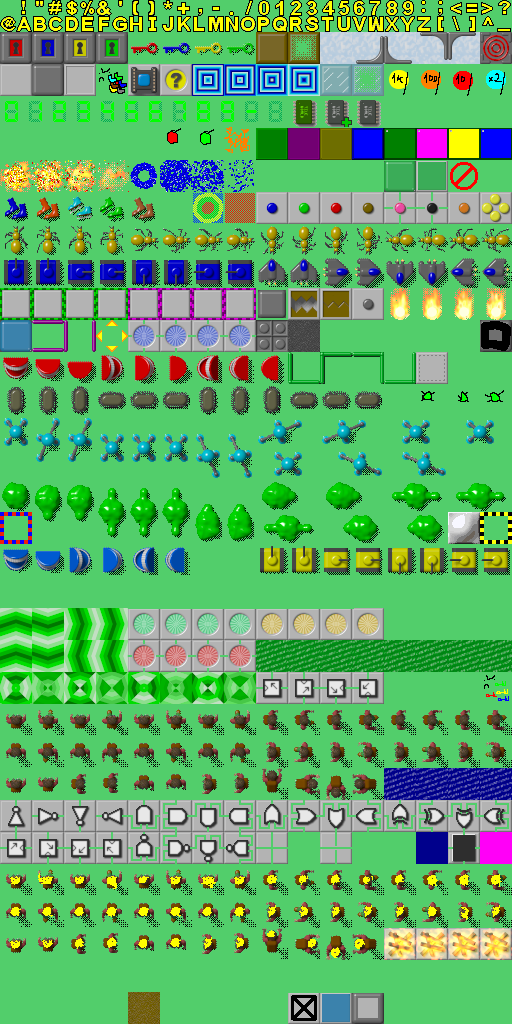
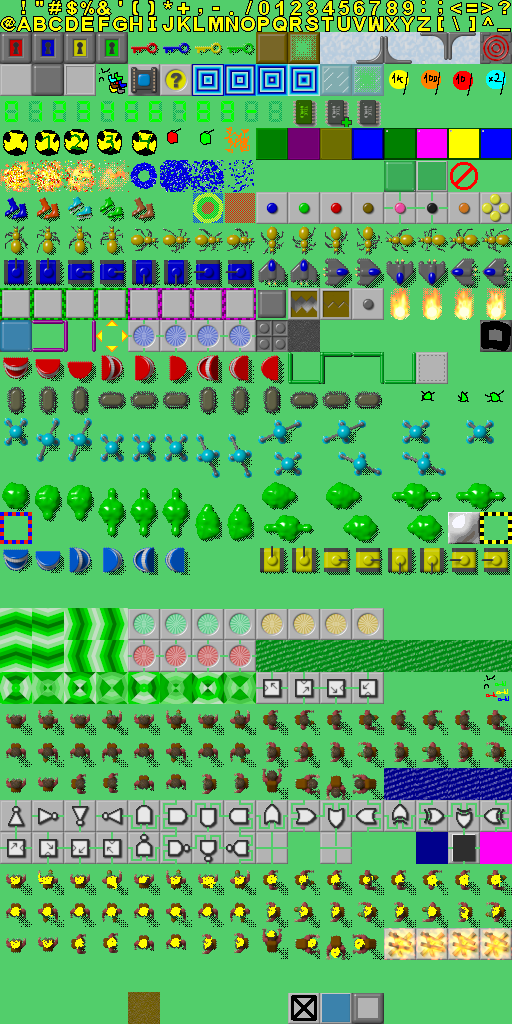
Add TNT

Changed region(s): [[0.0, 0.125, 0.3125, 0.1562]]

diff --git a/src/actors/monsters.ts b/src/actors/monsters.ts
@@ -9,6 +9,8 @@ import { Direction, relativeToAbsolute } from "../helpers"
 import { Playable } from "./playables"
 import { actorDB } from "../const"
 import { genericStretchyArt } from "../actor"
+import { Fire } from "./terrain"
+import Tile from "../tile"
 
 export abstract class Monster extends Actor {
 	blocks(): true {
@@ -152,3 +154,50 @@ export class Walker extends Monster {
 }
 
 actorDB["walker"] = Walker
+
+export class LitTNT extends Monster {
+	art = (): ActorArt => ({
+		actorName: "tnt",
+		frame: Math.floor(this.lifeLeft / 60),
+	})
+	lifeLeft = 250
+	tags = ["monster", "normal-monster", "movable", "cc1block", "tnt"]
+	explosionStage: 0 | 1 | 2 | 3 = 0
+	id = "tntLit"
+	nukeTile(tile: Tile): void {
+		let protectedLayer: Layer = Layer.STATIONARY
+		const tileHadMovable = tile[Layer.MOVABLE].length > 0
+		let movableDied = false
+		// TODO Canopies
+		if (tileHadMovable) protectedLayer = Layer.STATIONARY + 1 // Protect stationary only
+		for (const actor of tile.allActors)
+			if (actor.layer >= protectedLayer) {
+				actor.bumped?.(
+					this,
+					Math.abs(tile.x - this.tile.x) > Math.abs(tile.y - this.tile.y)
+						? 2 + Math.sign(tile.x - this.tile.x)
+						: 1 + Math.sign(tile.y - this.tile.y)
+				)
+				if (actor.destroy(this) && actor.layer === Layer.MOVABLE)
+					movableDied = true
+			}
+		// Create a memorial fire if a movable got blown up (if we can)
+		if (tileHadMovable && movableDied && tile[Layer.STATIONARY].length === 0)
+			new Fire(this.level, tile.position)
+	}
+	onEachDecision(): void {
+		if (this.lifeLeft > 0) this.lifeLeft--
+		else this.explosionStage++
+		if (!this.explosionStage) return
+		this.tags.push("melting") // For ice blocks
+		for (const tile of this.tile.getDiamondSearch(this.explosionStage))
+			if (
+				Math.abs(tile.x - this.tile.x) < 3 &&
+				Math.abs(tile.y - this.tile.y) < 3
+			)
+				this.nukeTile(tile)
+		if (this.explosionStage === 3) this.nukeTile(this.tile)
+		this.tags.pop()
+	}
+}
+actorDB["tntLit"] = LitTNT

diff --git a/src/actors/walls.ts b/src/actors/walls.ts
@@ -3,6 +3,7 @@ import { Layer } from "../tile"
 import { actorDB } from "../const"
 import { Direction } from "../helpers"
 import { Playable } from "./playables"
+import { LevelState } from "../level"
 export class Wall extends Actor {
 	id = "wall"
 	tags = ["wall"]
@@ -17,9 +18,10 @@ export class Wall extends Actor {
 
 actorDB["wall"] = Wall
 
-// TODO Ghost blockage, TNT resistance
+// TODO Ghost blockage
 export class SteelWall extends Actor {
 	id = "steelWall"
+	immuneTags = ["tnt"]
 	art: ActorArt = { actorName: "steelWall" }
 	get layer(): Layer {
 		return Layer.STATIONARY
@@ -193,8 +195,9 @@ export class ToggleWall extends Actor {
 
 actorDB["toggleWall"] = ToggleWall
 
-export class Swivel extends Actor {
-	id = "swivel"
+export class SwivelRotatingPart extends Actor {
+	id = "swivelRotatingPart"
+	immuneTags = ["tnt"]
 	art = (): ActorArt => ({
 		actorName: "swivel",
 		animation: ["ur", "dr", "dl", "ul"][this.direction],
@@ -212,6 +215,29 @@ export class Swivel extends Actor {
 		if (actor.direction === this.direction) this.direction++
 		else if (actor.direction === (this.direction + 1) % 4) this.direction += 3
 		this.direction %= 4
+	}
+}
+
+export class Swivel extends Actor {
+	id = "swivel"
+	art = { actorName: "swivel", animation: "floor" }
+	rotatingPart?: SwivelRotatingPart
+	get layer(): Layer {
+		return Layer.STATIONARY
+	}
+	constructor(level: LevelState, position: [number, number]) {
+		super(level, position)
+	}
+	levelStarted(): void {
+		this.rotatingPart = new SwivelRotatingPart(this.level, this.tile.position)
+		this.rotatingPart.direction = this.direction
+	}
+	destroy(killer?: Actor | null, animType?: string | null): boolean {
+		if (super.destroy(killer, animType)) {
+			this.rotatingPart?.destroy(null, null)
+			return true
+		}
+		return false
 	}
 }
 

diff --git a/src/tile.ts b/src/tile.ts
@@ -4,7 +4,7 @@ import { Direction } from "./helpers"
 
 export enum Layer {
 	STATIONARY, // Terrain, etc.
-	ITEM,
+	ITEM, // All item-eque things: Bombs, echips, boots, keys, etc.
 	ITEM_SUFFIX, // No sign, etc.
 	MOVABLE, // Blocks, Players, Monsters
 	SPECIAL, // Thin walls, canopies, swivels, etc.
@@ -71,6 +71,24 @@ class Tile extends Array<Array<Actor>> {
 					: acc,
 			1
 		)
+	}
+	*getDiamondSearch(level: number): IterableIterator<Tile> {
+		if (level === 1) {
+			for (let i = 0; i < 4; i++) {
+				const tile = this.getNeighbor(i)
+				if (tile) yield tile
+			}
+			return
+		}
+		for (let yOff = -level; yOff <= level; yOff++) {
+			const xOff = level - Math.abs(yOff)
+			const tile1 = this.level.field[this.x - xOff]?.[this.y + yOff]
+			if (tile1) yield tile1
+			if (xOff !== 0) {
+				const tile2 = this.level.field[this.x + xOff]?.[this.y + yOff]
+				if (tile2) yield tile2
+			}
+		}
 	}
 }
 

diff --git a/src/actors/items.ts b/src/actors/items.ts
@@ -3,6 +3,7 @@ import { Actor, ActorArt, matchTags } from "../actor"
 import { actorDB, keyNameList } from "../const"
 import { LevelState } from "../level"
 import { Playable } from "./playables"
+import { LitTNT } from "./monsters"
 
 export const enum ItemDestination {
 	NONE,
@@ -216,3 +217,21 @@ export class Bonus extends Item {
 }
 
 actorDB["bonus"] = Bonus
+
+export class TNT extends Item {
+	id = "tnt"
+	art = { actorName: "tnt" }
+	destination = ItemDestination.ITEM
+	actorLeft(other: Actor): void {
+		if (other instanceof Playable) {
+			this.destroy(null, null)
+			const lit = new LitTNT(this.level, this.tile.position)
+			lit.inventory.itemMax = other.inventory.itemMax
+			lit.inventory.items = [...other.inventory.items]
+			for (const keyType in other.inventory.keys)
+				lit.inventory.keys[keyType] = { ...other.inventory.keys[keyType] }
+		}
+	}
+}
+
+actorDB["tnt"] = TNT

diff --git a/src/actor.ts b/src/actor.ts
@@ -195,7 +195,6 @@ export abstract class Actor {
 	onEachDecision?(forcedOnly: boolean): void
 	_internalDecide(forcedOnly = false): void {
 		this.moveDecision = Decision.NONE
-		this.onEachDecision?.(forcedOnly)
 		if (this.cooldown) return
 		// If we have a pending decision, don't do anything, doing decisions may cause a state change, otherwise
 		if (this.pendingDecision) return
@@ -207,6 +206,7 @@ export abstract class Actor {
 			this.moveDecision = this.direction + 1
 			return
 		}
+		this.onEachDecision?.(forcedOnly)
 		if (forcedOnly || !this._internalCanDecide()) return
 		const directions = this.decideMovement?.()
 

diff --git a/src/cc2ImageFormat.ts b/src/cc2ImageFormat.ts
@@ -134,6 +134,10 @@ const cc2ImageFormat: CC2ImageFormat = {
 		},
 		echip: [11, 3],
 		// TODO Add all art left
+		tnt: [
+			[0, 4],
+			[4, 4],
+		],
 		boom: [
 			[0, 5],
 			[3, 5],
@@ -204,6 +208,7 @@ const cc2ImageFormat: CC2ImageFormat = {
 			[12, 9],
 			[15, 9],
 		],
+		steelWall: [15, 10],
 		forceFloor: {
 			up: [
 				[0, 19],
@@ -287,6 +292,7 @@ const cc2ImageFormat: CC2ImageFormat = {
 			ul: [10, 11],
 			ur: [11, 11],
 			dr: [12, 11],
+			floor: [13, 11],
 		},
 		tankBlue: {
 			up: [

diff --git a/src/actors/animation.ts b/src/actors/animation.ts
@@ -11,6 +11,7 @@ import {
 export abstract class Animation extends Actor {
 	animationCooldown = 16
 	blockTags = ["playable"]
+	ignoreTags = ["!playable"]
 	get layer(): Layer {
 		return Layer.MOVABLE
 	}
@@ -23,6 +24,7 @@ export abstract class Animation extends Actor {
 	}
 	onEachDecision(): void {
 		this.animationCooldown--
+		if (this.cooldown) this.cooldown++
 	}
 	// Despawning means destroying, for animations
 	despawn(): void {

diff --git a/src/actors/blocks.ts b/src/actors/blocks.ts
@@ -61,7 +61,7 @@ export class IceBlock extends Actor {
 	}
 	bumped = this.melt
 	melt(other: Actor): void {
-		if (other.tags.includes("melting")) {
+		if (other.getCompleteTags("tags").includes("melting")) {
 			this.destroy(this, null)
 			if (other.layer === Layer.STATIONARY) other.destroy(this, null)
 			if (this.tile[Layer.STATIONARY].length === 0)

diff --git a/src/actors/terrain.ts b/src/actors/terrain.ts
@@ -269,6 +269,7 @@ actorDB["exit"] = Exit
 
 export class EChipGate extends Actor {
 	id = "echipGate"
+	immuneTags = ["tnt"]
 	art = { actorName: "echipGate" }
 	get layer(): Layer {
 		return Layer.STATIONARY
